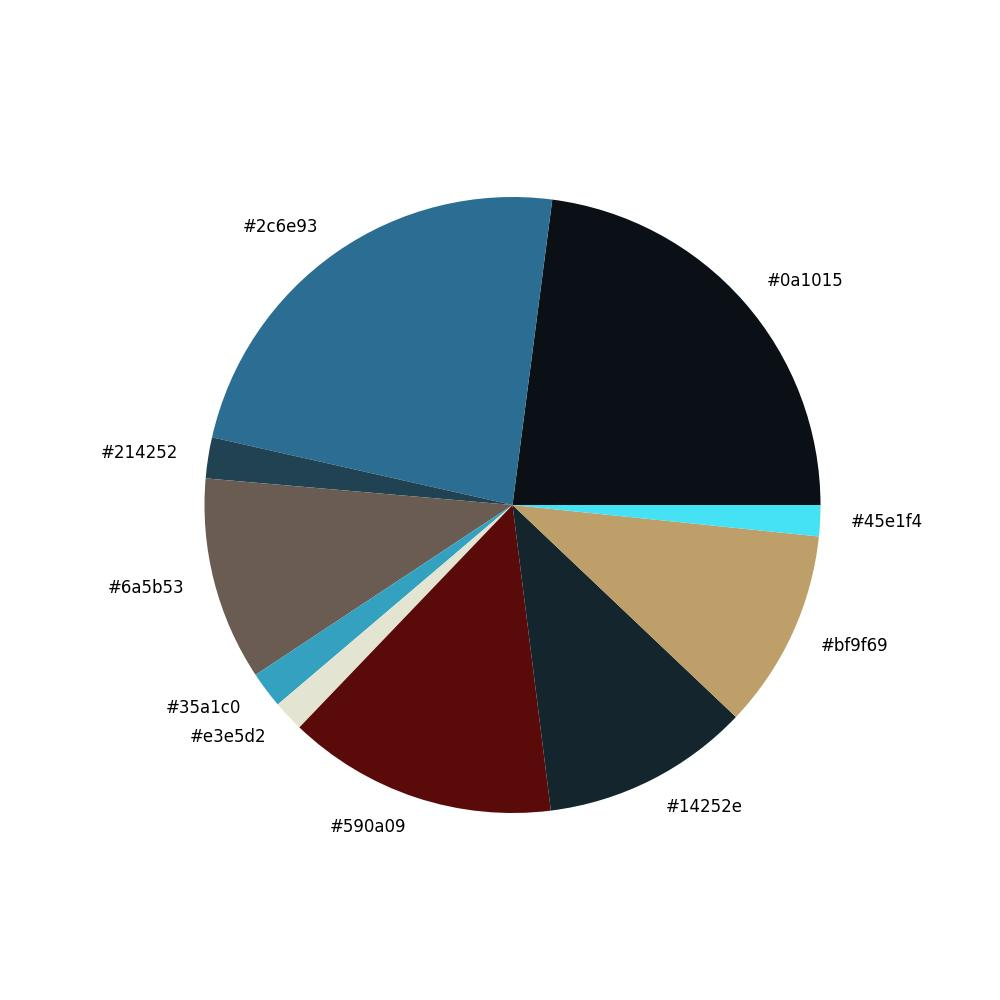
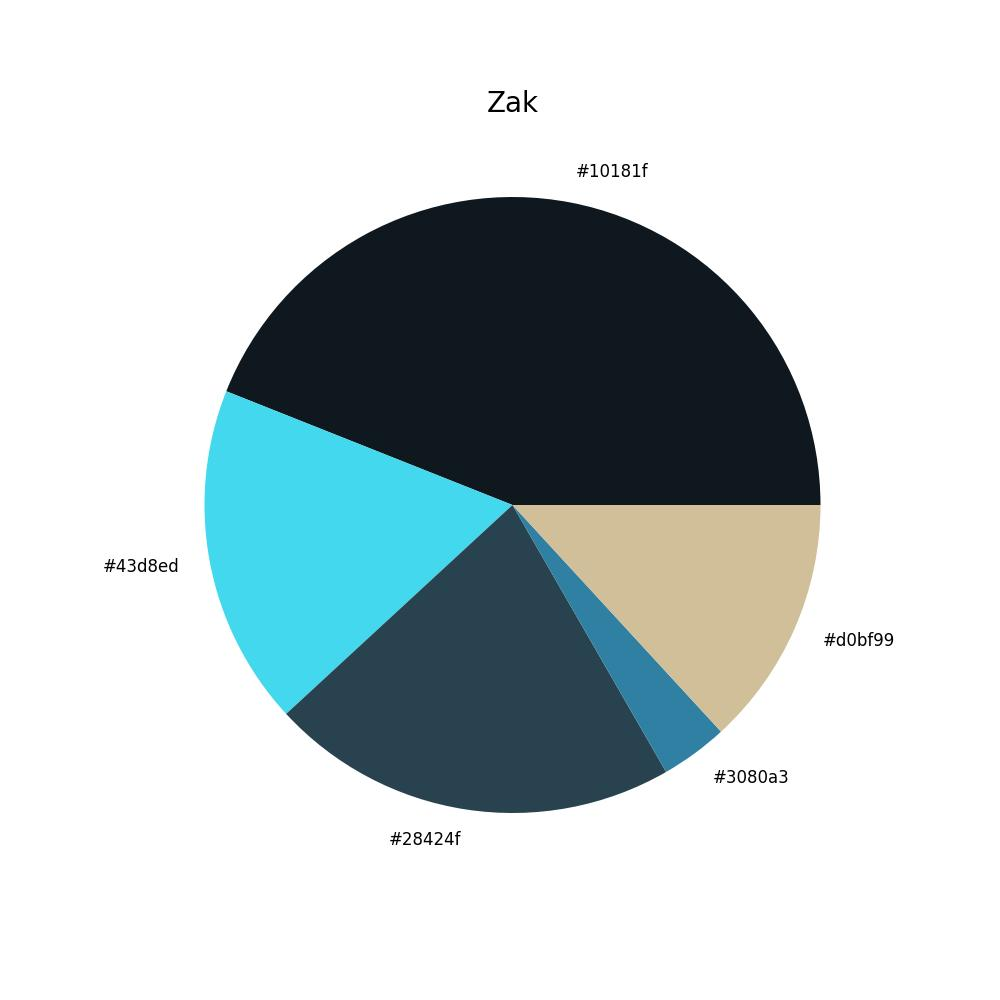
chart display working

diff --git a/templates/index.html b/templates/index.html
@@ -125,7 +125,7 @@
                 <div class="card">
                     <div class="card-body">
                         <figure height="500">
-                            <img src="{{ url_for('static',filename='colors.png') }}" alt="chart" class="img-fluid">
+                            <img src="{{ chart_path }}" alt="chart" class="img-fluid">
                         </figure>
                     </div>
                 </div>

diff --git a/main.py b/main.py
@@ -7,15 +7,19 @@ app = Flask(__name__)
 @app.route('/', methods=['GET', 'POST'])
 def index():
     if request.method == "GET":
-        return render_template('index.html')
+        return render_template('index.html', chart_path="./static/colors.png")
     else:
-        print(request.form["chartNameInput"])
-        print(request.form["maxColorInput"])
-        f = request.files["imageInput"]
-        print(f.filename)
-        f.save("./static/temp/" + f.filename)
-        generate_color_chart(f)
-        return render_template('index.html')
+        # get form data
+        chart_name = request.form["chartNameInput"]
+        n_color = request.form["maxColorInput"]
+        img = request.files["imageInput"]
+
+        # save temp and generate chart
+        img.save("./static/temp/" + img.filename)
+        generate_color_chart(chart_name, n_color, img)
+
+        # load page with chart
+        return render_template('index.html', chart_path="./static/temp/" + img.filename)
 
 
 if __name__ == '__main__':

diff --git a/color.py b/color.py
@@ -39,9 +39,9 @@ def RGB2HEX(color):
     return "#{:02x}{:02x}{:02x}".format(int(color[0]), int(color[1]), int(color[2]))
 
 
-def generate_color_chart(img):
+def generate_color_chart(chart_name, n_color, img):
     image = get_image("./static/temp/" + img.filename)
-    number_of_colors = 10
+    number_of_colors = int(n_color)
     modified_image = image.reshape(image.shape[0]*image.shape[1], 3)
     clf = KMeans(n_clusters=number_of_colors)
     labels = clf.fit_predict(modified_image)
@@ -54,6 +54,6 @@ def generate_color_chart(img):
     rgb_colors = [ordered_colors[i] for i in counts.keys()]
 
     plt.switch_backend('agg')
-    plt.title('Colors Detection ($n=10$)', fontsize=20)
+    plt.title(chart_name, fontsize=20)
     plt.pie(counts.values(), labels=hex_colors, colors=hex_colors)
     plt.savefig("./static/temp/" + img.filename)
